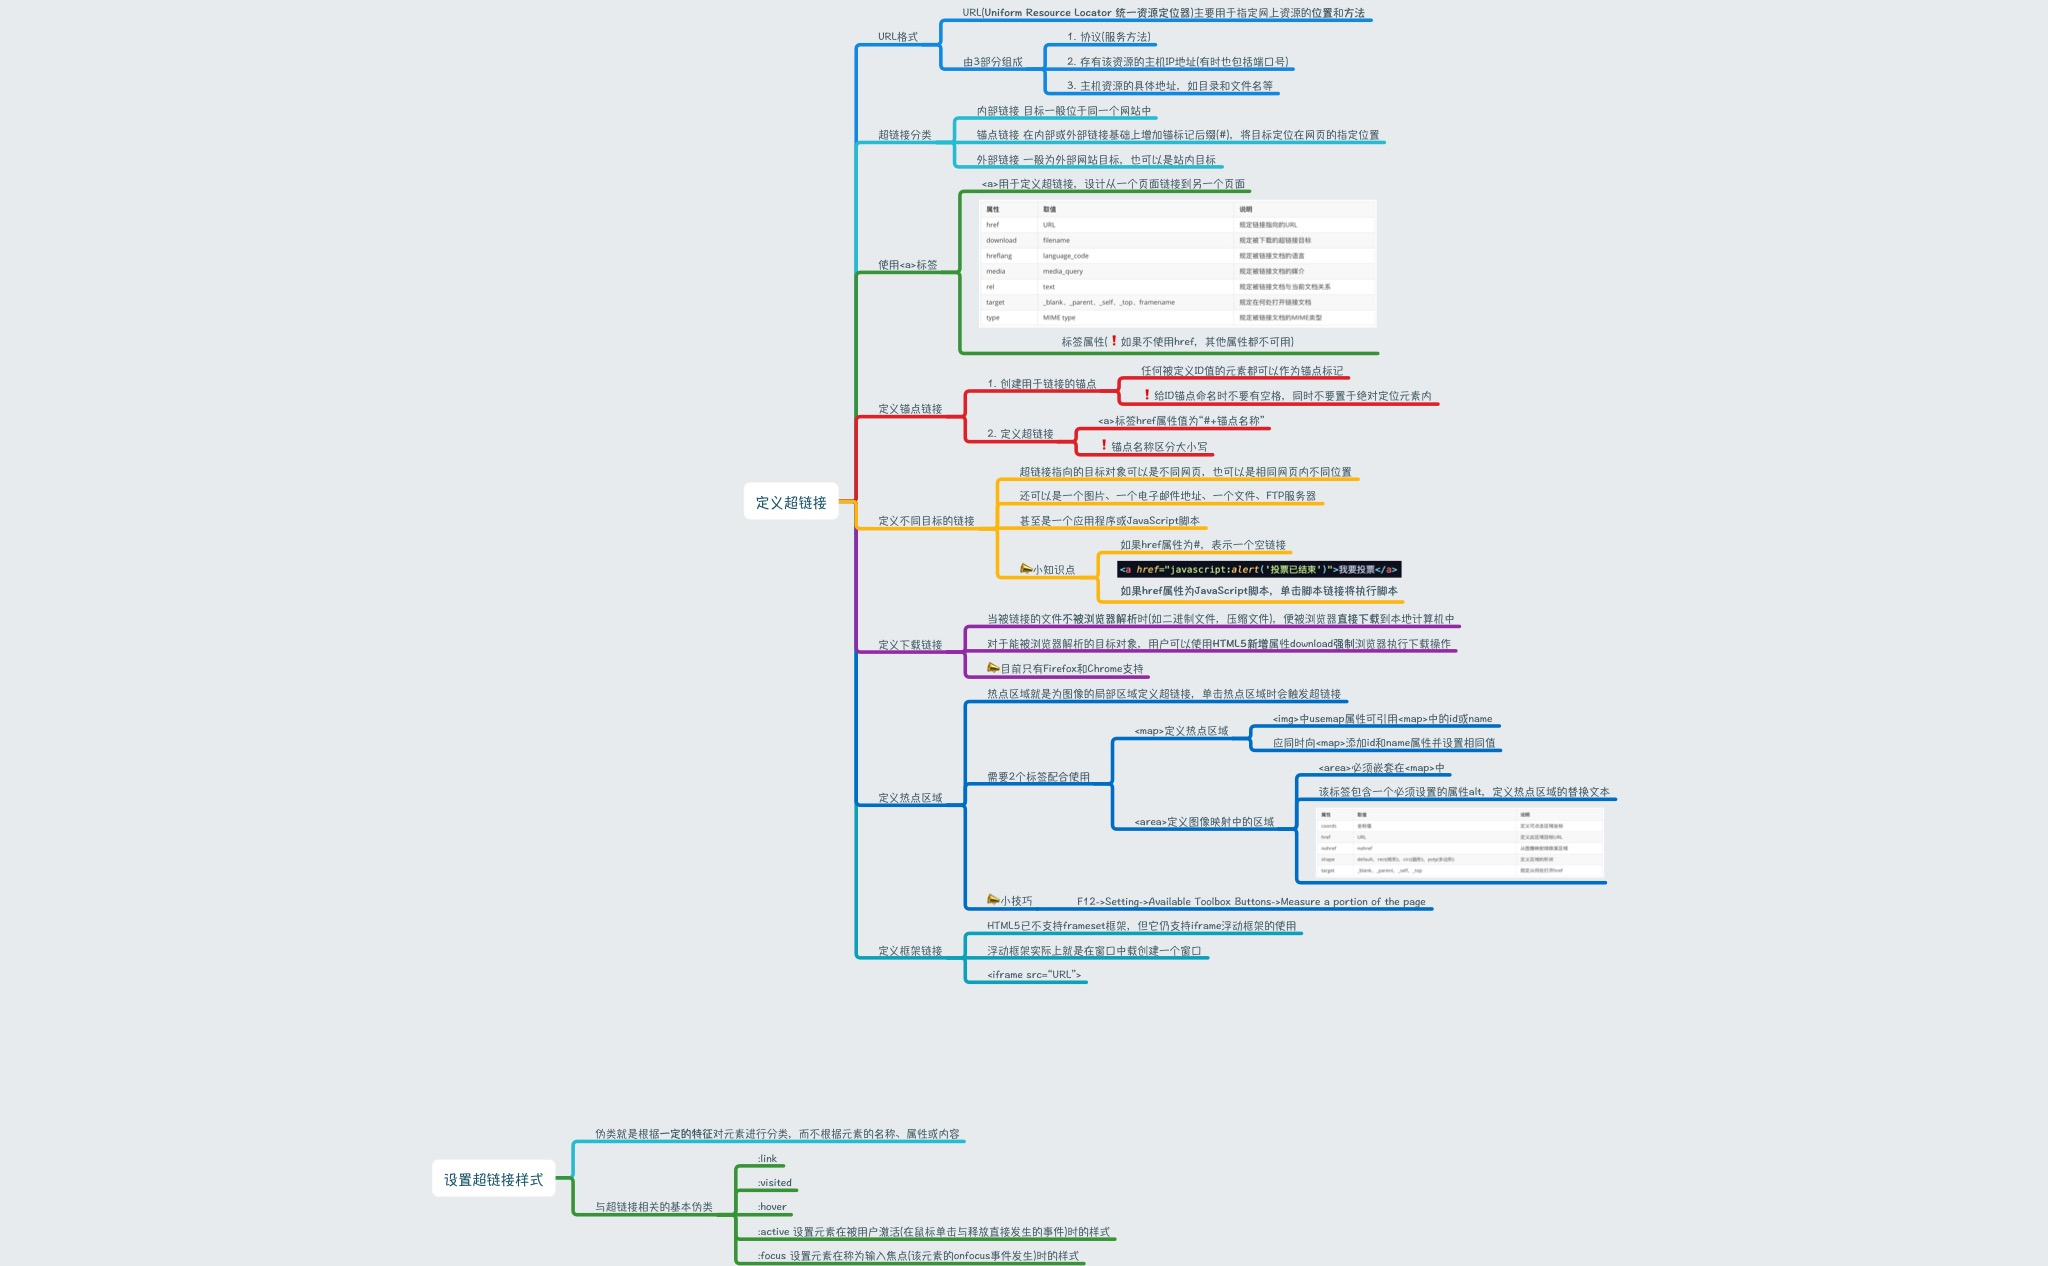
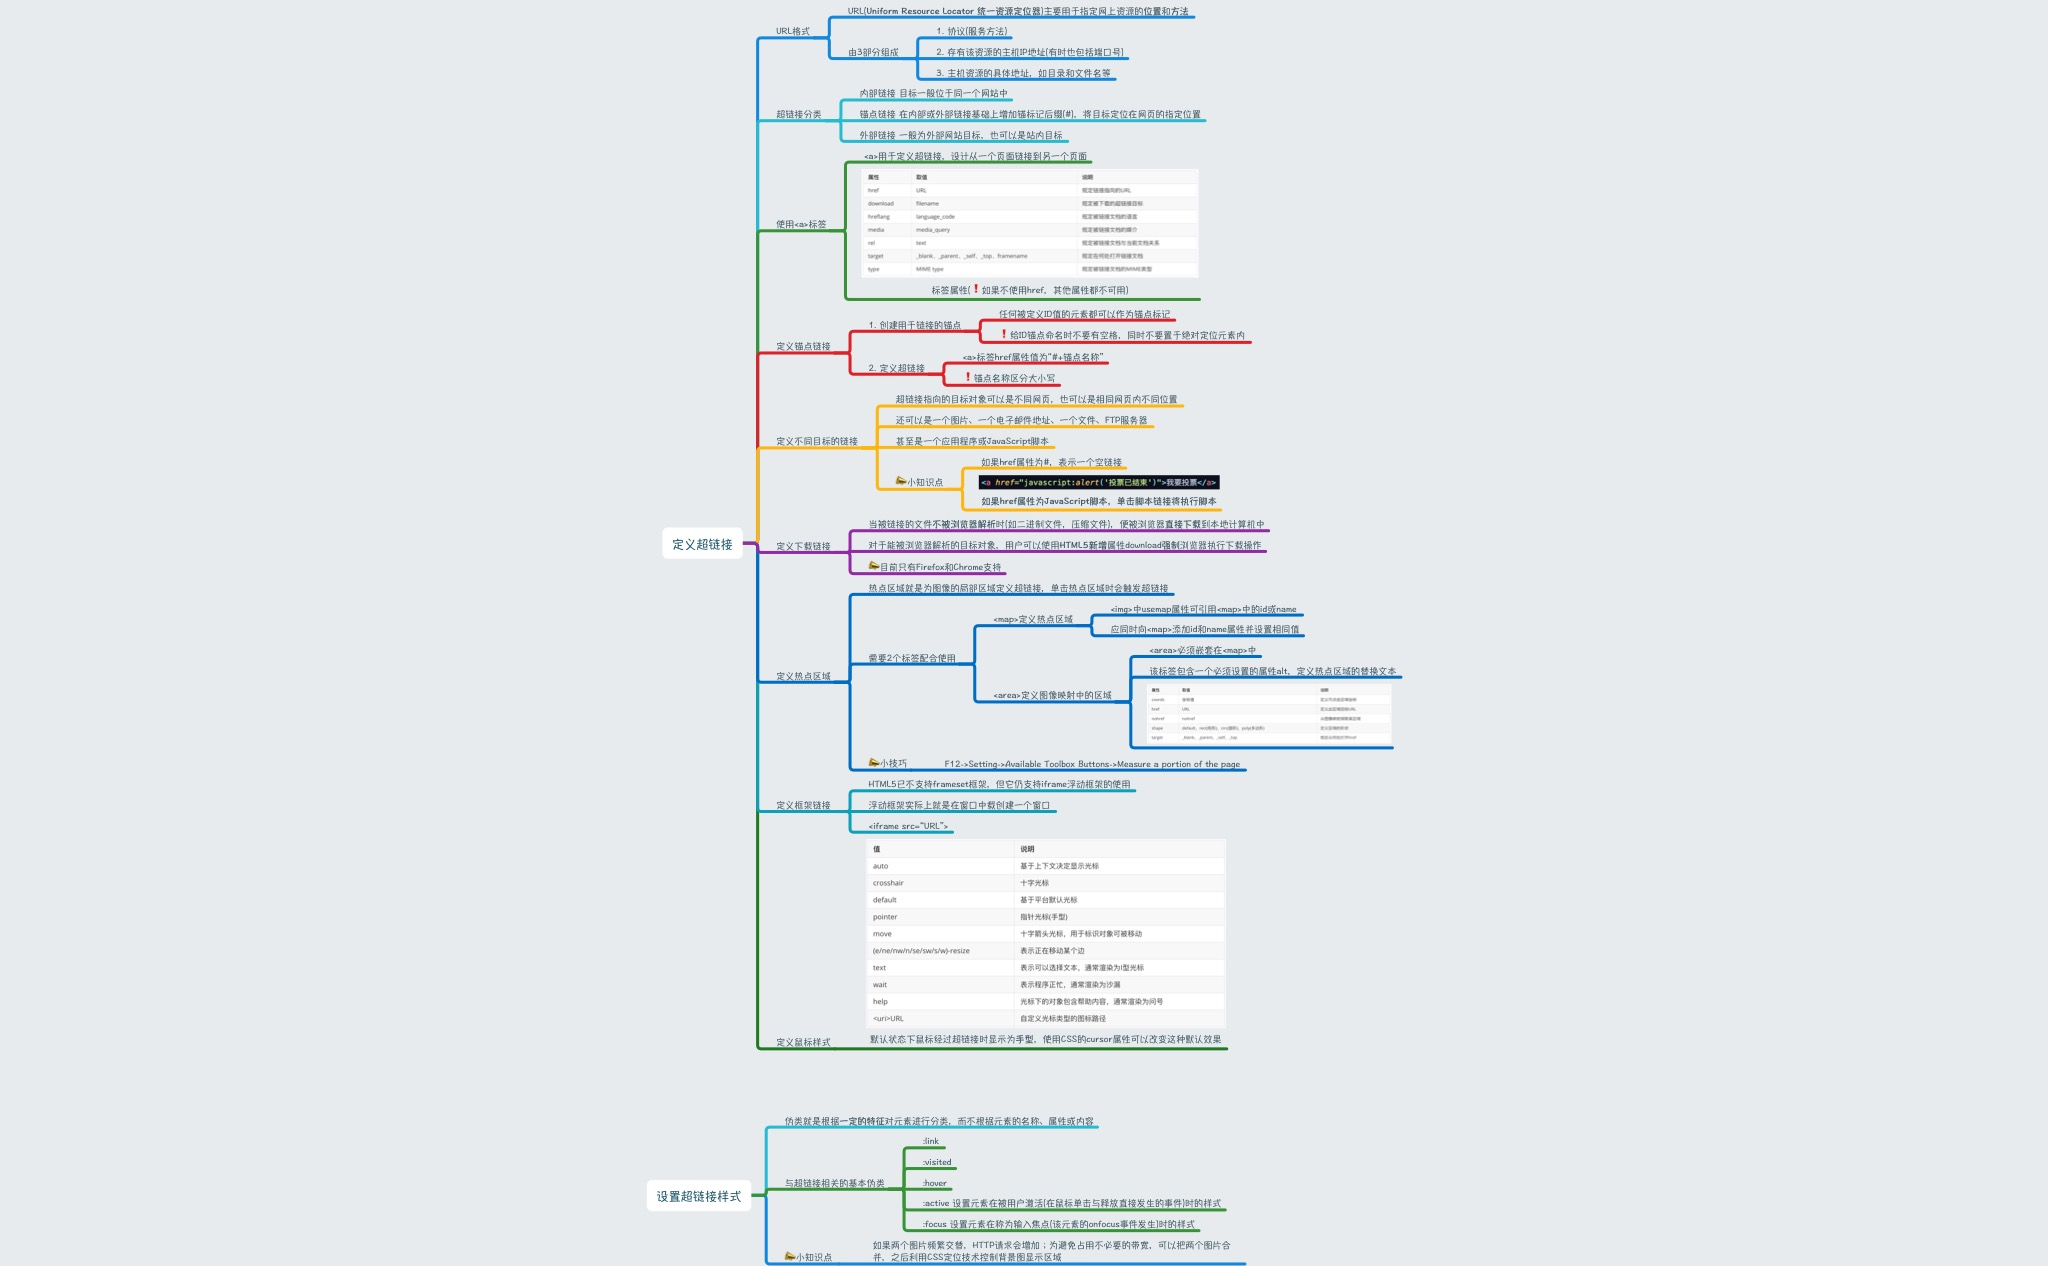
《HTML5+CSS3+JavaScript从入门到精通》思维导图+代码集

Changed region(s): [[0.3438, 0.0, 0.7812, 0.8318], [0.2812, 0.8626, 0.625, 1.0], [0.2188, 0.9242, 0.2812, 0.955]]

diff --git a/第7章-使用CSS美化超链接/实战案例/定义鼠标样式.html b/第7章-使用CSS美化超链接/实战案例/定义鼠标样式.html
@@ -1,0 +1,35 @@
+<!DOCTYPE html>
+<html lang="en">
+<head>
+    <meta charset="UTF-8">
+    <title>定义鼠标样式</title>
+    <style type="text/css">
+        a {
+            cursor: pointer, hand;
+            text-decoration: none;
+            display: inline-block;
+            padding: 2px 1em;
+            height: 28px;
+            line-height: 32px; /*line-height = content-height + 2 * padding*/
+            text-align: center;
+            background: url("images/b1.gif") no-repeat center;
+            color: #ccc;
+        }
+        a:hover {
+            background: url("images/b2.gif") no-repeat center;
+            color: #fff;
+            cursor: url("images/Cursor_3.cur"), url("images/Cursor_3.gif");
+        }
+    </style>
+</head>
+<body>
+<div id="quickSummary">
+    <p class="p1"><span>展示以<acronym
+            title="cascading style sheets">CSS</acronym>技术为基础，并提供超强的视觉冲击力。只要选择列表中任意一个样式表，就可以将它加载到本页面中，并呈现不同的设计效果。</span></p>
+    <p class="p2"><span>下载<a title="这个页面的HTML源代码不能够被改动。"
+                             href="http://www.csszengarden.com/zengarden-sample.html">HTML文档</a> 和 <a
+            title="这个页面的CSS样式表文件，你可以更改它。"
+            href="http://www.csszengarden.com/zengarden-sample.css">CSS文件</a>。</span></p>
+</div>
+</body>
+</html>

diff --git a/第7章-使用CSS美化超链接/实战案例/定义立体样式.html b/第7章-使用CSS美化超链接/实战案例/定义立体样式.html
@@ -1,0 +1,31 @@
+<!DOCTYPE html>
+<html lang="en">
+<head>
+    <meta charset="UTF-8">
+    <title>定义立体样式</title>
+    <style type="text/css">
+        a {
+            text-decoration: none;
+            border-right: solid 1px #666;
+            border-bottom: solid 1px #666;
+            zoom: 1;
+        }
+        a:hover {
+            border-left: solid 1px #666;
+            border-top: solid 1px #666;
+            border-right: none;
+            border-bottom: none;
+        }
+    </style>
+</head>
+<body>
+<div id="quickSummary">
+    <p class="p1"><span>展示以<acronym
+            title="cascading style sheets">CSS</acronym>技术为基础，并提供超强的视觉冲击力。只要选择列表中任意一个样式表，就可以将它加载到本页面中，并呈现不同的设计效果。</span></p>
+    <p class="p2"><span>下载<a title="这个页面的HTML源代码不能够被改动。"
+                             href="http://www.csszengarden.com/zengarden-sample.html">HTML文档</a> 和 <a
+            title="这个页面的CSS样式表文件，你可以更改它。"
+            href="http://www.csszengarden.com/zengarden-sample.css">CSS文件</a>。</span></p>
+</div>
+</body>
+</html>

diff --git a/第7章-使用CSS美化超链接/实战案例/定义下划线样式.html b/第7章-使用CSS美化超链接/实战案例/定义下划线样式.html
@@ -1,0 +1,29 @@
+<!DOCTYPE html>
+<html lang="en">
+<head>
+    <meta charset="UTF-8">
+    <title>定义下划线样式</title>
+    <style media="screen" type="text/css">
+        a {
+            text-decoration: none;
+            color: #999;
+        }
+        a:hover {
+            border-bottom: dashed 1px red;
+            color: #000;
+            font-weight: bold;
+            zoom: 1;
+        }
+    </style>
+</head>
+<body>
+<div id="quickSummary">
+    <p class="p1"><span>展示以<acronym
+            title="cascading style sheets">CSS</acronym>技术为基础，并提供超强的视觉冲击力。只要选择列表中任意一个样式表，就可以将它加载到本页面中，并呈现不同的设计效果。</span></p>
+    <p class="p2"><span>下载<a title="这个页面的HTML源代码不能够被改动。"
+                             href="http://www.csszengarden.com/zengarden-sample.html">HTML文档</a> 和 <a
+            title="这个页面的CSS样式表文件，你可以更改它。"
+            href="http://www.csszengarden.com/zengarden-sample.css">CSS文件</a>。</span></p>
+</div>
+</body>
+</html>
